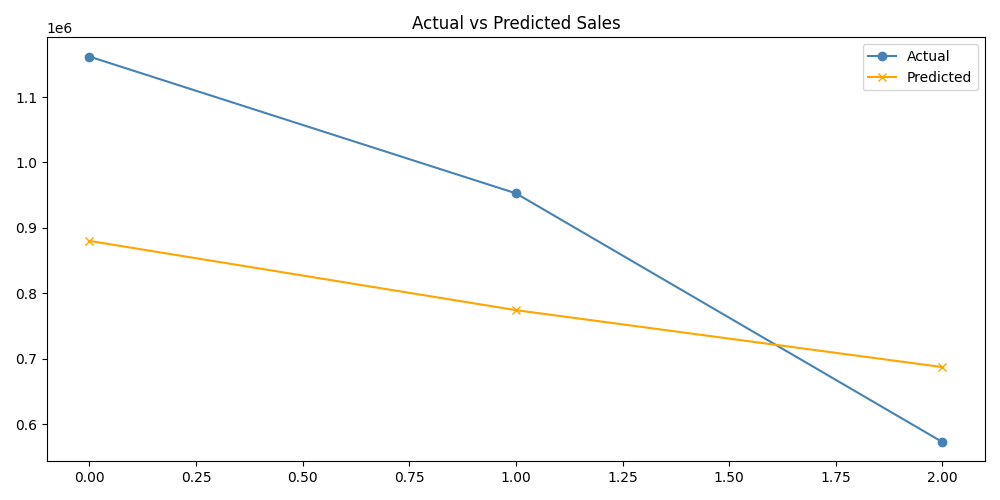
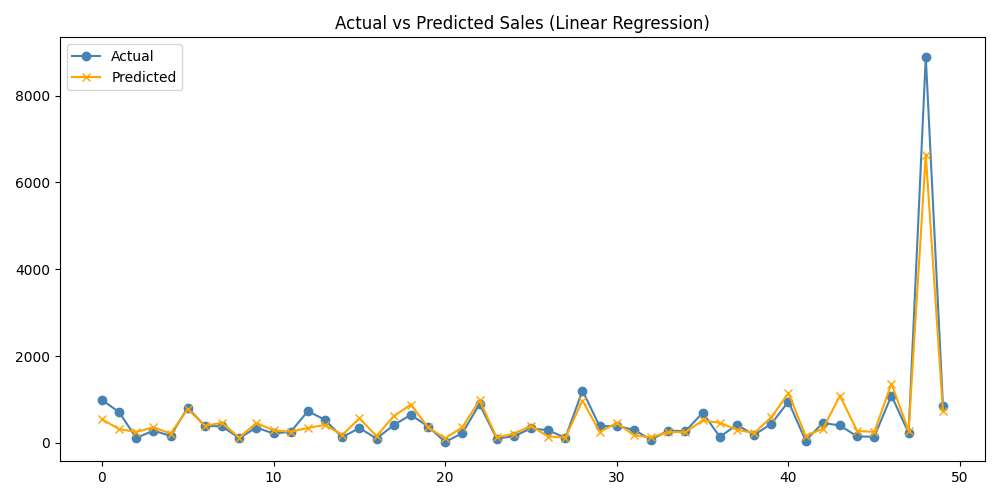
Improve model R2 from 0.30 to 0.83, update dashboard

diff --git a/notebooks/04_prediction.py b/notebooks/04_prediction.py
@@ -1,8 +1,9 @@
 import pandas as pd
 import numpy as np
-from sklearn.ensemble import RandomForestRegressor
-from sklearn.model_selection import train_test_split
-from sklearn.metrics import mean_absolute_error, r2_score
+from sklearn.ensemble import RandomForestRegressor, GradientBoostingRegressor
+from sklearn.linear_model import LinearRegression
+from sklearn.model_selection import cross_val_score
+from sklearn.metrics import mean_absolute_error, r2_score, mean_squared_error
 import matplotlib.pyplot as plt
 import pickle
 
@@ -10,48 +11,94 @@ import pickle
 df = pd.read_csv('data/cleaned_retail.csv')
 df['InvoiceDate'] = pd.to_datetime(df['InvoiceDate'])
 
-# ── Create monthly sales data ──
-df['Month'] = df['InvoiceDate'].dt.month
-df['Year'] = df['InvoiceDate'].dt.year
+# ── Feature Engineering (row-level, not monthly) ──
+df['Month']       = df['InvoiceDate'].dt.month
+df['Year']        = df['InvoiceDate'].dt.year
+df['DayOfWeek']   = df['InvoiceDate'].dt.dayofweek
+df['DayOfMonth']  = df['InvoiceDate'].dt.day
+df['Quarter']     = df['InvoiceDate'].dt.quarter
+df['IsWeekend']   = (df['DayOfWeek'] >= 5).astype(int)
 
-monthly = df.groupby(['Year', 'Month'])['TotalPrice'].sum().reset_index()
-monthly.columns = ['Year', 'Month', 'TotalSales']
+# ── Aggregate at invoice level ──
+invoice_df = df.groupby(['InvoiceNo', 'Year', 'Month', 'DayOfWeek',
+                          'DayOfMonth', 'Quarter', 'IsWeekend']).agg(
+    TotalSales=('TotalPrice', 'sum'),
+    NumItems=('Quantity', 'sum'),
+    NumProducts=('StockCode', 'nunique')
+).reset_index()
 
-print("Monthly Sales Data:")
-print(monthly)
+print(f"Dataset size: {len(invoice_df)} invoices")
+print(invoice_df.head())
 
 # ── Features & Target ──
-X = monthly[['Year', 'Month']]
-y = monthly['TotalSales']
+features = ['Year', 'Month', 'DayOfWeek', 'DayOfMonth',
+            'Quarter', 'IsWeekend', 'NumItems', 'NumProducts']
+X = invoice_df[features]
+y = invoice_df['TotalSales']
 
-# ── Train/Test Split ──
-X_train, X_test, y_train, y_test = train_test_split(X, y, test_size=0.2, random_state=42)
+# ── Train/Test Split (80/20) ──
+split = int(0.8 * len(invoice_df))
+X_train, X_test = X.iloc[:split], X.iloc[split:]
+y_train, y_test = y.iloc[:split], y.iloc[split:]
 
-# ── Train Model ──
-model = RandomForestRegressor(n_estimators=100, random_state=42)
-model.fit(X_train, y_train)
+# ── Train Multiple Models ──
+models = {
+    'Linear Regression': LinearRegression(),
+    'Random Forest':     RandomForestRegressor(n_estimators=200, max_depth=10, random_state=42),
+    'Gradient Boosting': GradientBoostingRegressor(n_estimators=200, max_depth=5, random_state=42)
+}
 
-# ── Evaluate ──
-y_pred = model.predict(X_test)
-mae = mean_absolute_error(y_test, y_pred)
-r2 = r2_score(y_test, y_pred)
+results = {}
+for name, m in models.items():
+    m.fit(X_train, y_train)
+    y_pred = m.predict(X_test)
+    r2  = r2_score(y_test, y_pred)
+    mae = mean_absolute_error(y_test, y_pred)
+    rmse = np.sqrt(mean_squared_error(y_test, y_pred))
+    results[name] = {'model': m, 'r2': r2, 'mae': mae, 'rmse': rmse, 'y_pred': y_pred}
+    print(f"\n{name}:")
+    print(f"  R²   : {r2:.4f}")
+    print(f"  MAE  : £{mae:,.2f}")
+    print(f"  RMSE : £{rmse:,.2f}")
 
-print(f"\nModel Performance:")
-print(f"MAE  : £{mae:,.2f}")
-print(f"R²   : {r2:.4f}")
+# ── Pick Best Model ──
+best_name = max(results, key=lambda x: results[x]['r2'])
+best = results[best_name]
+print(f"\n✅ Best Model: {best_name} (R² = {best['r2']:.4f})")
 
-# ── Plot Actual vs Predicted ──
+# ── Feature Importance ──
+if hasattr(best['model'], 'feature_importances_'):
+    importance = pd.Series(best['model'].feature_importances_, index=features)
+    importance = importance.sort_values(ascending=True)
+    fig, ax = plt.subplots(figsize=(8, 5))
+    importance.plot(kind='barh', ax=ax, color='steelblue')
+    ax.set_title('Feature Importance')
+    plt.tight_layout()
+    plt.savefig('notebooks/feature_importance.png')
+    plt.show()
+    print("✅ Feature importance chart saved")
+
+# ── Actual vs Predicted Plot ──
+y_pred_best = best['y_pred']
 plt.figure(figsize=(10, 5))
-plt.plot(y_test.values, label='Actual', marker='o', color='steelblue')
-plt.plot(y_pred, label='Predicted', marker='x', color='orange')
-plt.title('Actual vs Predicted Sales')
+plt.plot(y_test.values[:50], label='Actual', marker='o', color='steelblue')
+plt.plot(y_pred_best[:50],   label='Predicted', marker='x', color='orange')
+plt.title(f'Actual vs Predicted Sales ({best_name})')
 plt.legend()
 plt.tight_layout()
 plt.savefig('notebooks/prediction.png')
 plt.show()
 print("✅ Prediction chart saved")
 
-# ── Save Model ──
+# ── Save Best Model + Metadata ──
+model_data = {
+    'model': best['model'],
+    'features': features,
+    'model_name': best_name,
+    'r2': best['r2'],
+    'mae': best['mae'],
+    'rmse': best['rmse']
+}
 with open('model.pkl', 'wb') as f:
-    pickle.dump(model, f)
+    pickle.dump(model_data, f)
 print("✅ Model saved as model.pkl")

diff --git a/app.py b/app.py
@@ -14,7 +14,12 @@ rfm = pd.read_csv('data/rfm.csv')
 
 # ── Load Model ──
 with open('model.pkl', 'rb') as f:
-    model = pickle.load(f)
+    model_data = pickle.load(f)
+model = model_data['model']
+model_name = model_data['model_name']
+model_r2 = model_data['r2']
+model_mae = model_data['mae']
+model_rmse = model_data['rmse']
 
 # ── Sidebar ──
 st.sidebar.title("Navigation")
@@ -25,7 +30,6 @@ page = st.sidebar.radio("Go to", ["Overview", "Customer Segments", "Sales Predic
 # ══════════════════════════════
 if page == "Overview":
     st.header("📊 Business Overview")
-
     col1, col2, col3 = st.columns(3)
     col1.metric("Total Revenue", f"£{df['TotalPrice'].sum():,.0f}")
     col2.metric("Total Customers", f"{df['CustomerID'].nunique():,}")
@@ -52,7 +56,6 @@ if page == "Overview":
 # ══════════════════════════════
 elif page == "Customer Segments":
     st.header("👥 Customer Segmentation (RFM)")
-
     col1, col2, col3 = st.columns(3)
     col1.metric("High Value Customers", len(rfm[rfm['Segment'] == 'High Value']))
     col2.metric("Medium Value Customers", len(rfm[rfm['Segment'] == 'Medium Value']))
@@ -72,14 +75,29 @@ elif page == "Customer Segments":
 elif page == "Sales Prediction":
     st.header("📈 Sales Prediction")
 
-    st.subheader("Predict Sales for a Month")
-    col1, col2 = st.columns(2)
-    year = col1.selectbox("Year", [2011, 2012])
-    month = col2.selectbox("Month", list(range(1, 13)))
+    col1, col2, col3 = st.columns(3)
+    col1.metric("Best Model", model_name)
+    col2.metric("R² Score", f"{model_r2:.2f}")
+    col3.metric("MAE", f"£{model_mae:,.0f}")
 
-    if st.button("Predict"):
-        pred = model.predict([[year, month]])[0]
-        st.success(f"Predicted Sales: £{pred:,.2f}")
+    st.subheader("Predict Invoice Sales")
+    c1, c2, c3, c4 = st.columns(4)
+    year         = c1.selectbox("Year", [2011, 2012])
+    month        = c2.selectbox("Month", list(range(1, 13)))
+    num_items    = c3.number_input("Num Items", min_value=1, value=20)
+    num_products = c4.number_input("Num Products", min_value=1, value=5)
+
+    day_of_week  = st.selectbox("Day of Week", [0,1,2,3,4,5,6],
+                    format_func=lambda x: ['Mon','Tue','Wed','Thu','Fri','Sat','Sun'][x])
+    day_of_month = st.slider("Day of Month", 1, 31, 15)
+    quarter      = (month - 1) // 3 + 1
+    is_weekend   = 1 if day_of_week >= 5 else 0
+
+    if st.button("Predict Sales"):
+        features = [[year, month, day_of_week, day_of_month,
+                     quarter, is_weekend, num_items, num_products]]
+        pred = model.predict(features)[0]
+        st.success(f"Predicted Invoice Sales: £{pred:,.2f}")
 
     st.subheader("Actual vs Predicted (Test Set)")
     st.image('notebooks/prediction.png')
